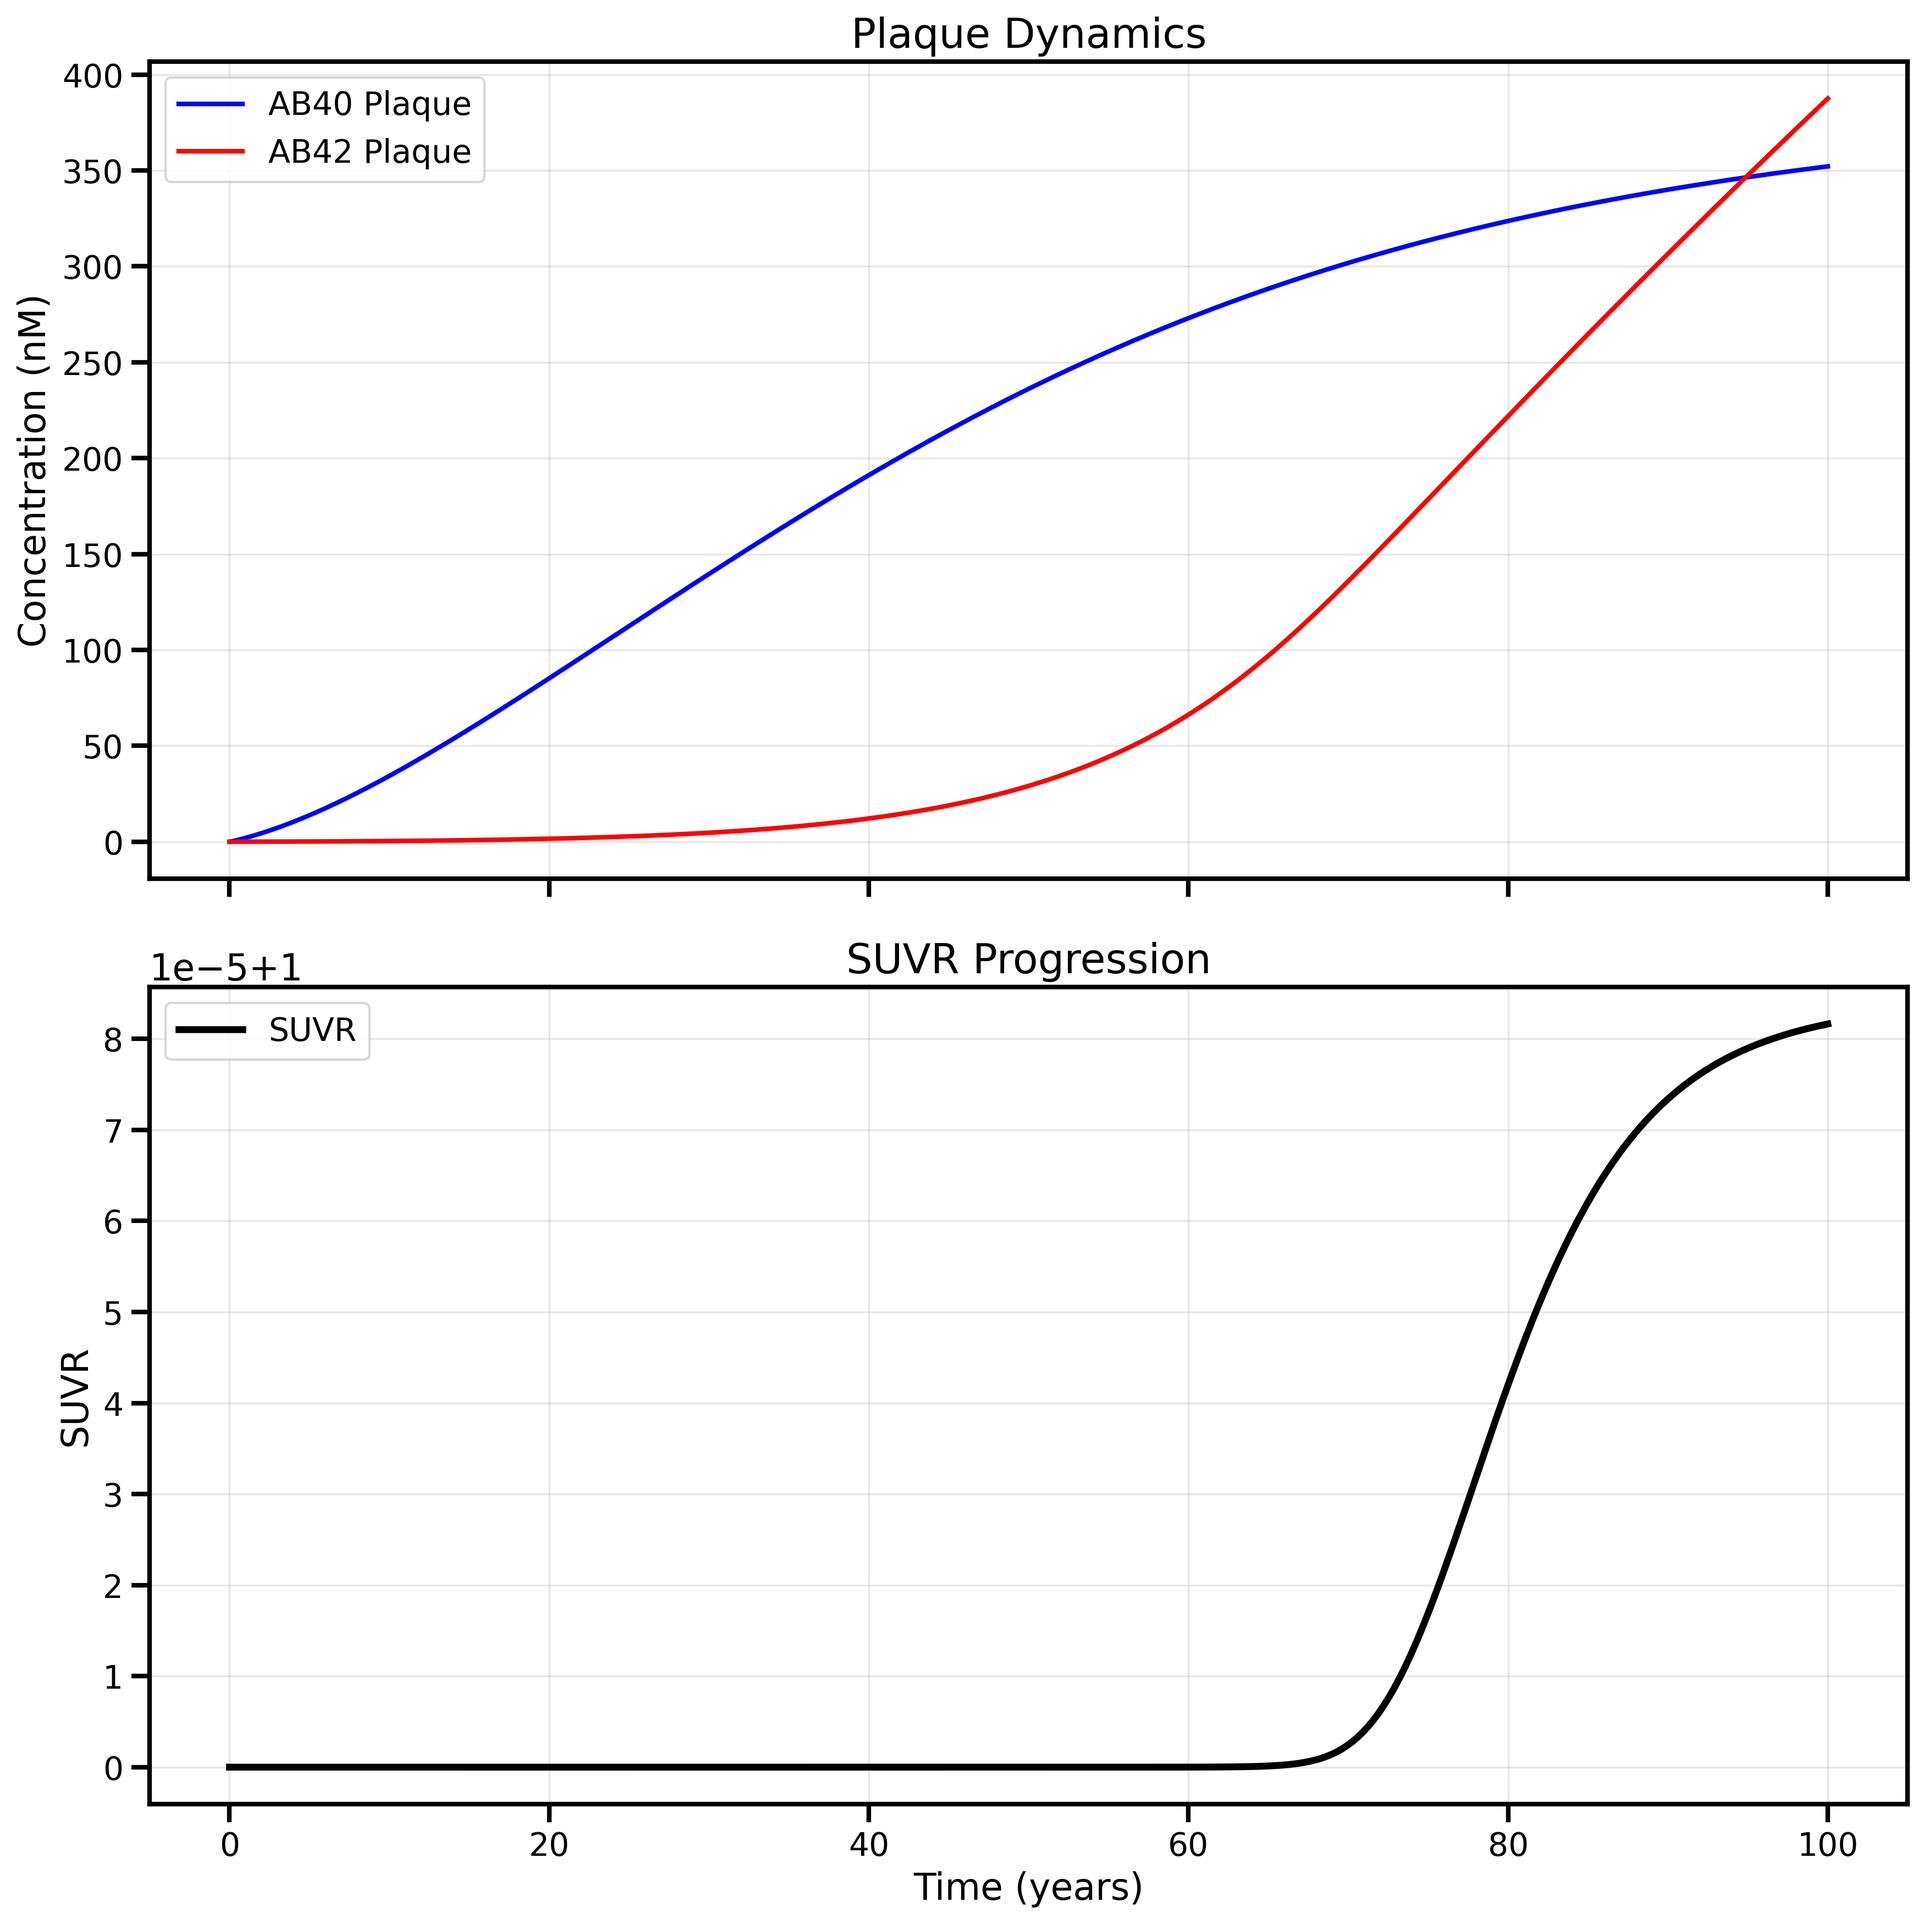
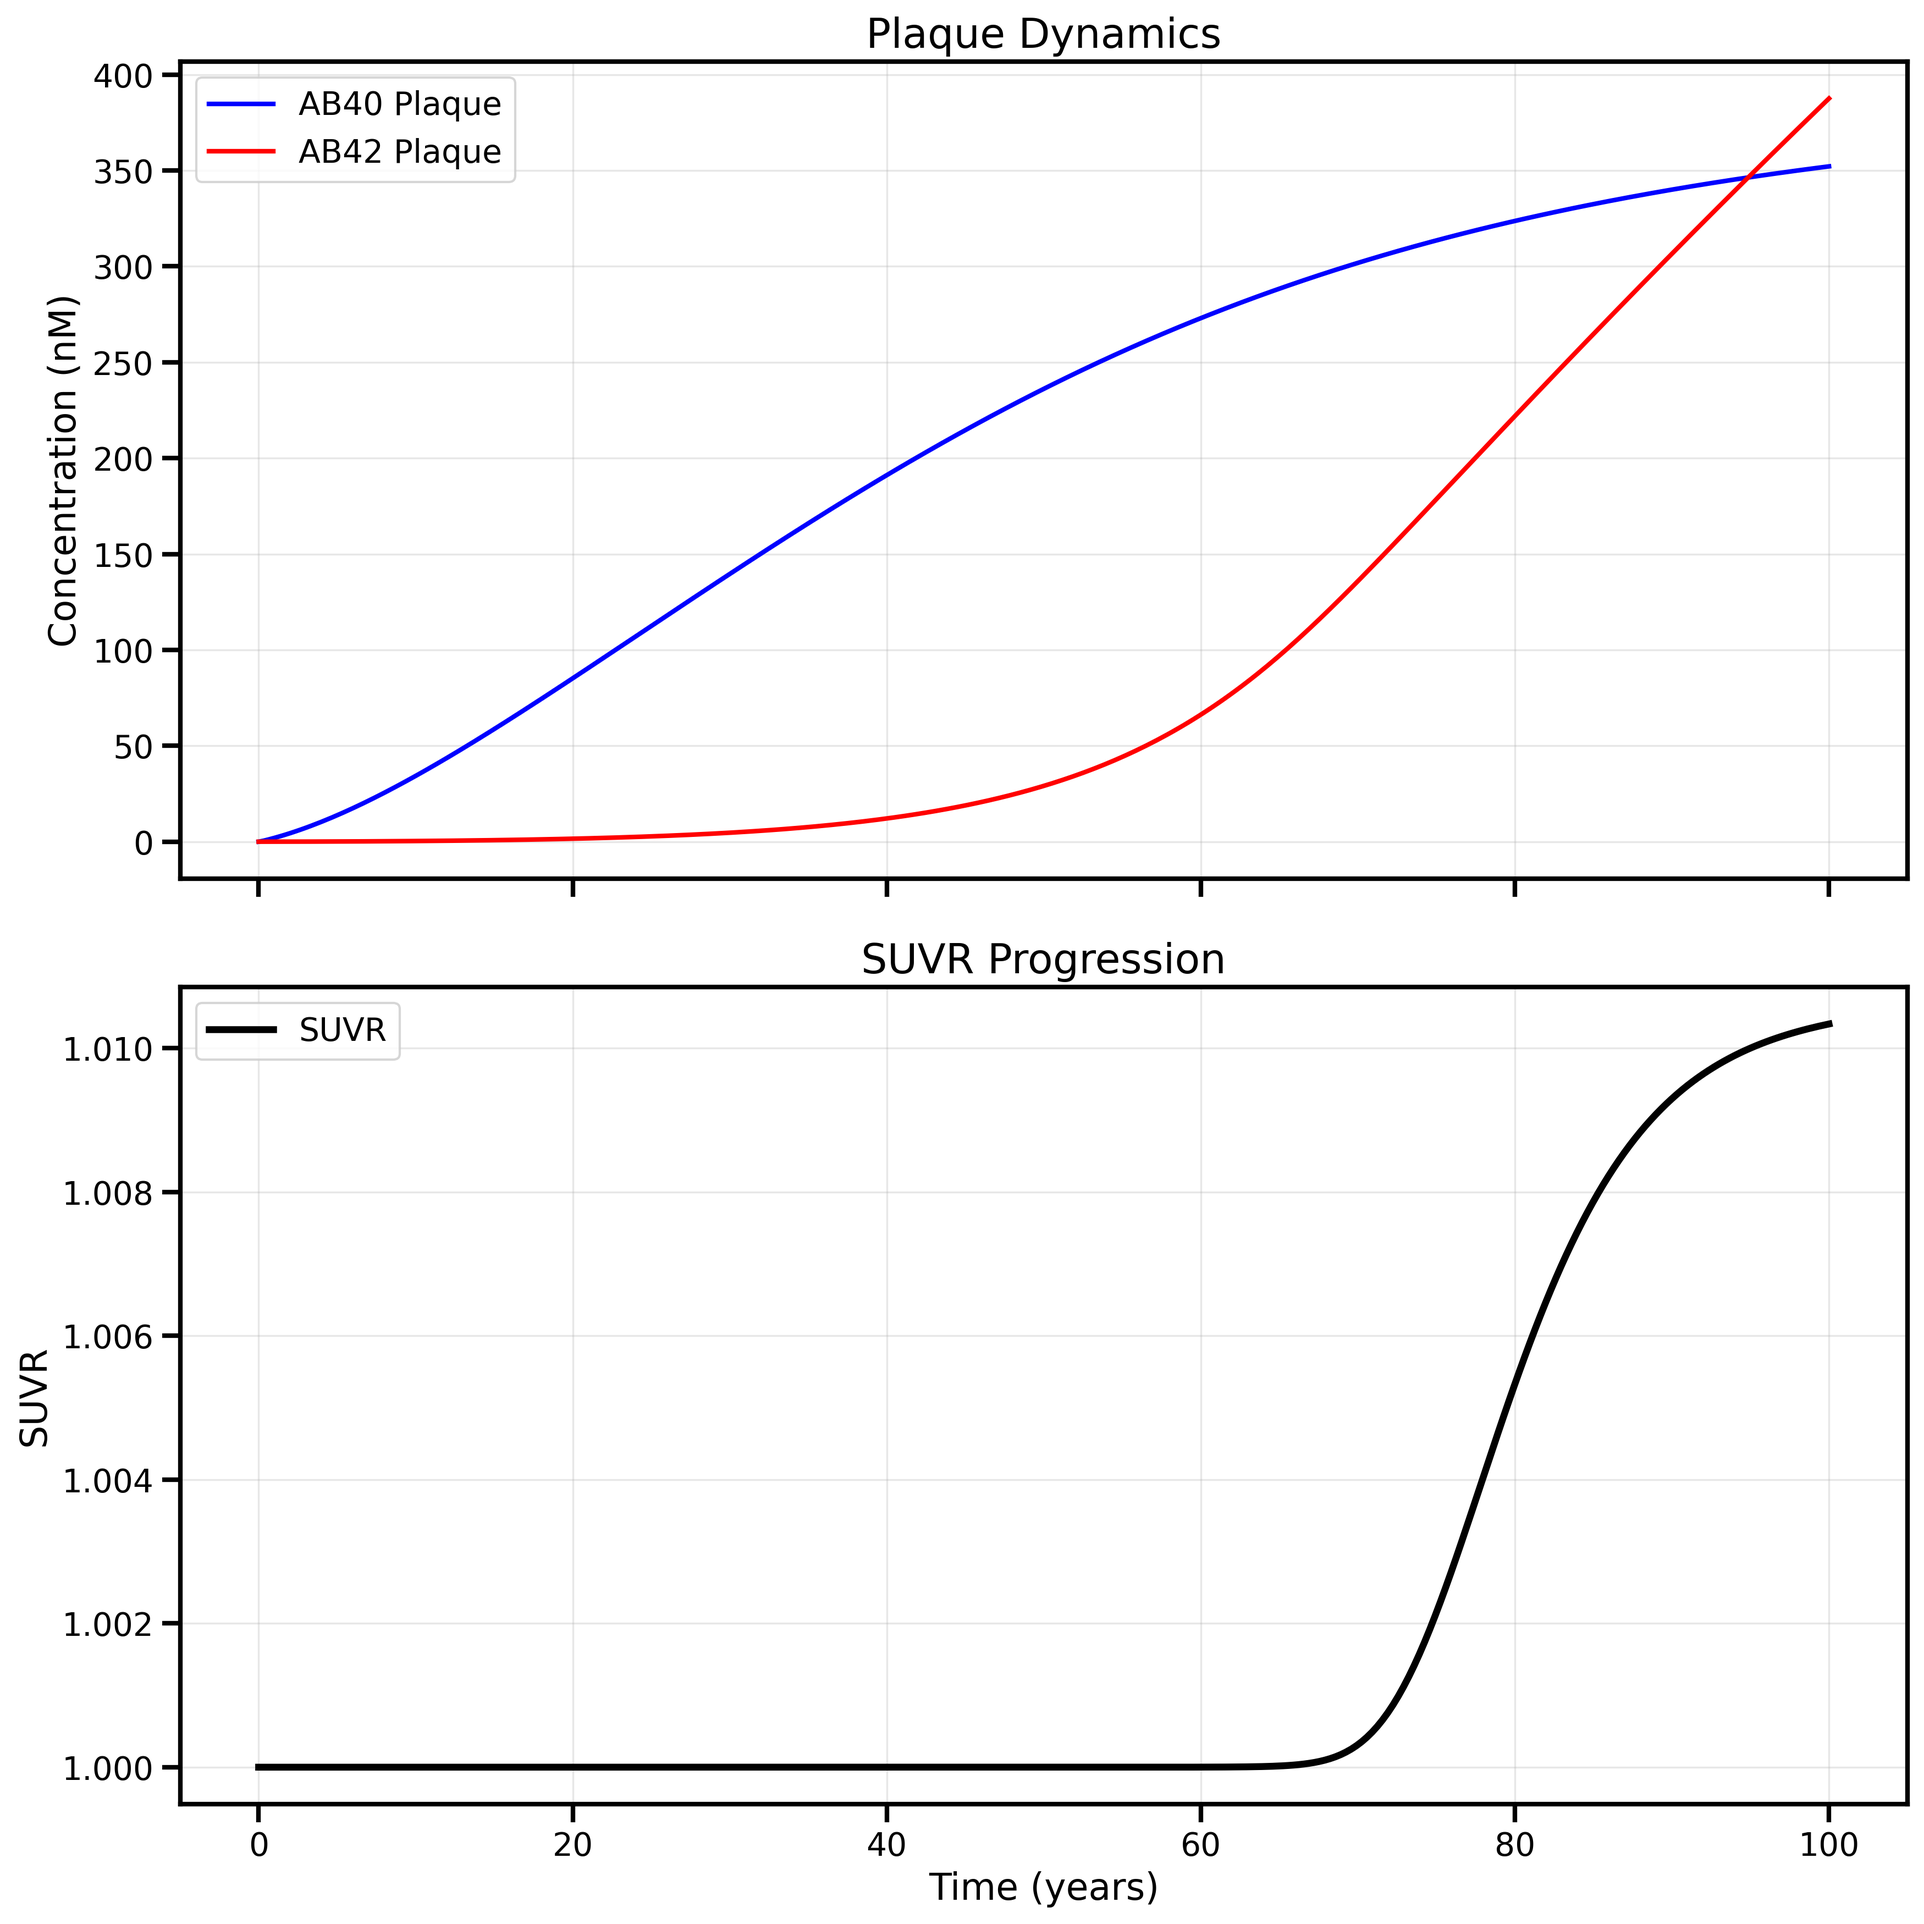
SUVR now in nM

diff --git a/Tellurium/visualize_tellurium_simulation.py b/Tellurium/visualize_tellurium_simulation.py
@@ -33,7 +33,7 @@ plt.rcParams.update({
 
 script_dir = Path(__file__).resolve().parent
 
-def calculate_suvr(sol, model, c1=2.52, c2=1.3, c3=3.5, c4=400000):
+def calculate_suvr(sol, model, c1=2.52, c2=1.3, c3=3.5, c4=400000, volume_scale_factor_isf=0.2505):
     """
     Calculate SUVR using the weighted sum formula:
     SUVR_w = 1 + (C₁(Ab42ᵒˡⁱᵍᵒ + Ab42ᵖʳᵒᵗᵒ + C₂*Ab42ᵖˡ))^C₃ / [(Ab42ᵒˡⁱᵍᵒ + Ab42ᵖʳᵒᵗᵒ + C₂*Ab42ᵖˡ)^C₃ + C₄^C₃]
@@ -79,7 +79,7 @@ def calculate_suvr(sol, model, c1=2.52, c2=1.3, c3=3.5, c4=400000):
         ab42_plaque = sol.ys[t, y_indexes.get('AB42_Plaque_unbound', 0)]
         
         # Calculate the weighted sum
-        weighted_sum = ab42_oligo + ab42_proto + c2 * ab42_plaque
+        weighted_sum = (ab42_oligo + ab42_proto + c2 * ab42_plaque)/volume_scale_factor_isf
         
         # Calculate the numerator and denominator for SUVR
         numerator = c1 * (weighted_sum ** c3)
